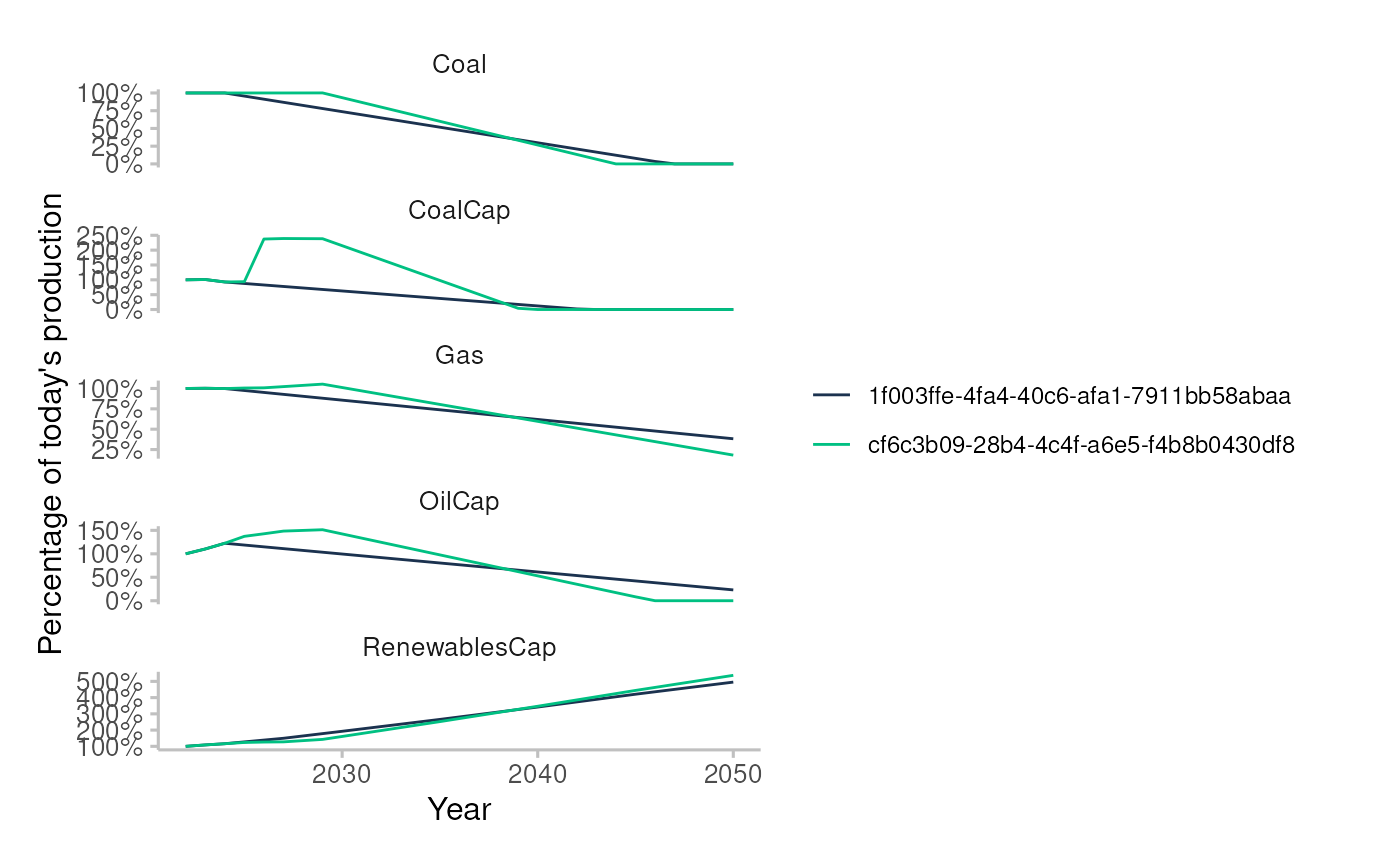
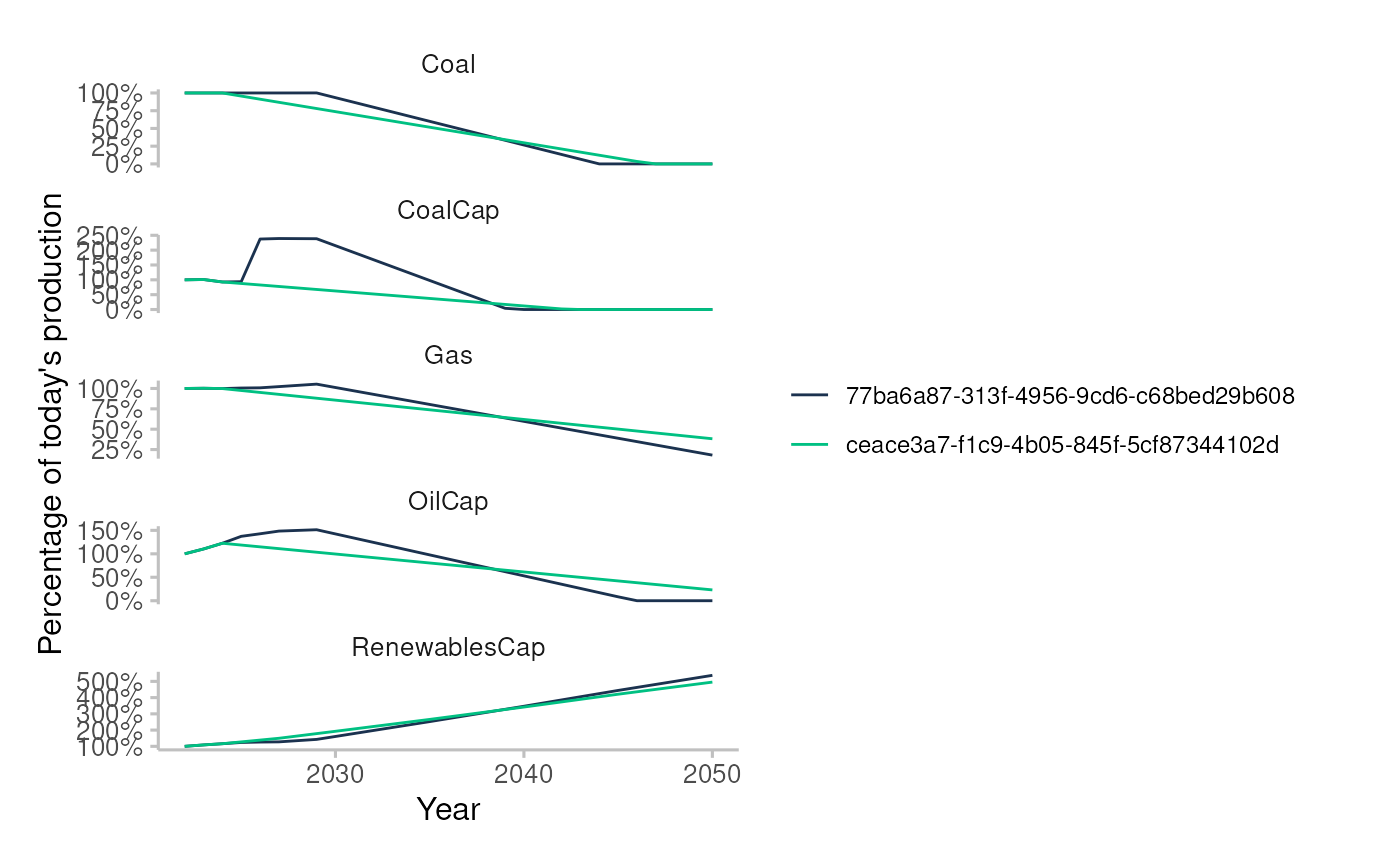
Deploying to gh-pages from @ Theia-Finance-Labs/trisk.analysis@0d2ade0a0e61b12641f2219aafac146e15362c86 🚀

diff --git a/articles/input-data-summary.html b/articles/input-data-summary.html
@@ -86,7 +86,7 @@
 <code class="sourceCode R"><span><span class="va">trisk_inputs_folder</span> <span class="op">&lt;-</span> <span class="fu"><a href="https://rdrr.io/r/base/file.path.html" class="external-link">file.path</a></span><span class="op">(</span><span class="st">"."</span>, <span class="st">"trisk_inputs"</span><span class="op">)</span></span></code></pre></div>
 <p>Download the data</p>
 <div class="sourceCode" id="cb3"><pre class="downlit sourceCode r">
-<code class="sourceCode R"><span><span class="fu"><a href="../reference/download_trisk_inputs.html">download_trisk_inputs</a></span><span class="op">(</span>local_save_folder <span class="op">=</span> <span class="va">trisk_inputs_folder</span><span class="op">)</span></span>
+<code class="sourceCode R"><span><span class="va">download_success</span> <span class="op">&lt;-</span> <span class="fu"><a href="../reference/download_trisk_inputs.html">download_trisk_inputs</a></span><span class="op">(</span>local_save_folder <span class="op">=</span> <span class="va">trisk_inputs_folder</span><span class="op">)</span></span>
 <span><span class="co">#&gt; Download completed.</span></span></code></pre></div>
 </div>
 <div class="section level2">
@@ -96,17 +96,21 @@
 <h3 id="sectors-covered-by-scenarios">Sectors covered by scenarios<a class="anchor" aria-label="anchor" href="#sectors-covered-by-scenarios"></a>
 </h3>
 <div class="sourceCode" id="cb4"><pre class="downlit sourceCode r">
-<code class="sourceCode R"><span><span class="va">scenarios</span> <span class="op">&lt;-</span> <span class="fu"><a href="https://rdrr.io/r/utils/read.table.html" class="external-link">read.csv</a></span><span class="op">(</span><span class="fu"><a href="https://rdrr.io/r/base/file.path.html" class="external-link">file.path</a></span><span class="op">(</span><span class="va">trisk_inputs_folder</span>, <span class="st">"scenarios.csv"</span><span class="op">)</span><span class="op">)</span></span>
-<span><span class="va">number_of_scenario_per_sector</span> <span class="op">&lt;-</span> <span class="va">scenarios</span> <span class="op"><a href="https://magrittr.tidyverse.org/reference/pipe.html" class="external-link">%&gt;%</a></span></span>
-<span>  <span class="fu"><a href="https://dplyr.tidyverse.org/reference/distinct.html" class="external-link">distinct</a></span><span class="op">(</span><span class="va">scenario</span>, <span class="va">sector</span>, <span class="va">technology</span><span class="op">)</span> <span class="op"><a href="https://magrittr.tidyverse.org/reference/pipe.html" class="external-link">%&gt;%</a></span></span>
-<span>  <span class="fu"><a href="https://dplyr.tidyverse.org/reference/group_by.html" class="external-link">group_by</a></span><span class="op">(</span><span class="va">sector</span>, <span class="va">technology</span><span class="op">)</span> <span class="op"><a href="https://magrittr.tidyverse.org/reference/pipe.html" class="external-link">%&gt;%</a></span></span>
-<span>  <span class="fu"><a href="https://dplyr.tidyverse.org/reference/summarise.html" class="external-link">summarise</a></span><span class="op">(</span>n_scenarios <span class="op">=</span> <span class="fu"><a href="https://dplyr.tidyverse.org/reference/context.html" class="external-link">n</a></span><span class="op">(</span><span class="op">)</span><span class="op">)</span></span>
+<code class="sourceCode R"><span><span class="kw">if</span> <span class="op">(</span><span class="va">download_success</span><span class="op">)</span> <span class="op">{</span></span>
+<span>  <span class="va">scenarios</span> <span class="op">&lt;-</span> <span class="fu"><a href="https://rdrr.io/r/utils/read.table.html" class="external-link">read.csv</a></span><span class="op">(</span><span class="fu"><a href="https://rdrr.io/r/base/file.path.html" class="external-link">file.path</a></span><span class="op">(</span><span class="va">trisk_inputs_folder</span>, <span class="st">"scenarios.csv"</span><span class="op">)</span><span class="op">)</span></span>
+<span>  <span class="va">number_of_scenario_per_sector</span> <span class="op">&lt;-</span> <span class="va">scenarios</span> <span class="op"><a href="https://magrittr.tidyverse.org/reference/pipe.html" class="external-link">%&gt;%</a></span></span>
+<span>    <span class="fu"><a href="https://dplyr.tidyverse.org/reference/distinct.html" class="external-link">distinct</a></span><span class="op">(</span><span class="va">scenario</span>, <span class="va">sector</span>, <span class="va">technology</span><span class="op">)</span> <span class="op"><a href="https://magrittr.tidyverse.org/reference/pipe.html" class="external-link">%&gt;%</a></span></span>
+<span>    <span class="fu"><a href="https://dplyr.tidyverse.org/reference/group_by.html" class="external-link">group_by</a></span><span class="op">(</span><span class="va">sector</span>, <span class="va">technology</span><span class="op">)</span> <span class="op"><a href="https://magrittr.tidyverse.org/reference/pipe.html" class="external-link">%&gt;%</a></span></span>
+<span>    <span class="fu"><a href="https://dplyr.tidyverse.org/reference/summarise.html" class="external-link">summarise</a></span><span class="op">(</span>n_scenarios <span class="op">=</span> <span class="fu"><a href="https://dplyr.tidyverse.org/reference/context.html" class="external-link">n</a></span><span class="op">(</span><span class="op">)</span><span class="op">)</span></span>
+<span><span class="op">}</span></span>
 <span><span class="co">#&gt; `summarise()` has grouped output by 'sector'. You can override using the</span></span>
 <span><span class="co">#&gt; `.groups` argument.</span></span></code></pre></div>
 <div class="sourceCode" id="cb5"><pre class="downlit sourceCode r">
-<code class="sourceCode R"><span><span class="fu">knitr</span><span class="fu">::</span><span class="fu"><a href="https://rdrr.io/pkg/knitr/man/kable.html" class="external-link">kable</a></span><span class="op">(</span><span class="va">number_of_scenario_per_sector</span><span class="op">)</span> <span class="op"><a href="https://magrittr.tidyverse.org/reference/pipe.html" class="external-link">%&gt;%</a></span></span>
-<span>  <span class="fu">kableExtra</span><span class="fu">::</span><span class="fu"><a href="https://rdrr.io/pkg/kableExtra/man/kable_styling.html" class="external-link">kable_styling</a></span><span class="op">(</span>bootstrap_options <span class="op">=</span> <span class="fu"><a href="https://rdrr.io/r/base/c.html" class="external-link">c</a></span><span class="op">(</span><span class="st">"striped"</span>, <span class="st">"hover"</span>, <span class="st">"condensed"</span><span class="op">)</span><span class="op">)</span> <span class="op"><a href="https://magrittr.tidyverse.org/reference/pipe.html" class="external-link">%&gt;%</a></span></span>
-<span>  <span class="fu">kableExtra</span><span class="fu">::</span><span class="fu"><a href="https://rdrr.io/pkg/kableExtra/man/scroll_box.html" class="external-link">scroll_box</a></span><span class="op">(</span>width <span class="op">=</span> <span class="st">"100%"</span>, height <span class="op">=</span> <span class="st">"400px"</span><span class="op">)</span></span></code></pre></div>
+<code class="sourceCode R"><span><span class="kw">if</span> <span class="op">(</span><span class="va">download_success</span><span class="op">)</span> <span class="op">{</span></span>
+<span>  <span class="fu">knitr</span><span class="fu">::</span><span class="fu"><a href="https://rdrr.io/pkg/knitr/man/kable.html" class="external-link">kable</a></span><span class="op">(</span><span class="va">number_of_scenario_per_sector</span><span class="op">)</span> <span class="op"><a href="https://magrittr.tidyverse.org/reference/pipe.html" class="external-link">%&gt;%</a></span></span>
+<span>    <span class="fu">kableExtra</span><span class="fu">::</span><span class="fu"><a href="https://rdrr.io/pkg/kableExtra/man/kable_styling.html" class="external-link">kable_styling</a></span><span class="op">(</span>bootstrap_options <span class="op">=</span> <span class="fu"><a href="https://rdrr.io/r/base/c.html" class="external-link">c</a></span><span class="op">(</span><span class="st">"striped"</span>, <span class="st">"hover"</span>, <span class="st">"condensed"</span><span class="op">)</span><span class="op">)</span> <span class="op"><a href="https://magrittr.tidyverse.org/reference/pipe.html" class="external-link">%&gt;%</a></span></span>
+<span>    <span class="fu">kableExtra</span><span class="fu">::</span><span class="fu"><a href="https://rdrr.io/pkg/kableExtra/man/scroll_box.html" class="external-link">scroll_box</a></span><span class="op">(</span>width <span class="op">=</span> <span class="st">"100%"</span>, height <span class="op">=</span> <span class="st">"400px"</span><span class="op">)</span></span>
+<span><span class="op">}</span></span></code></pre></div>
 <div style="border: 1px solid #ddd; padding: 0px; overflow-y: scroll; height:400px; overflow-x: scroll; width:100%; ">
 <table class="table table table-striped table-hover table-condensed" style="margin-left: auto; margin-right: auto;">
 <thead><tr>
@@ -340,21 +344,25 @@ EAF-OHF
 </h2>
 <p>Load downloaded data</p>
 <div class="sourceCode" id="cb6"><pre class="downlit sourceCode r">
-<code class="sourceCode R"><span><span class="va">assets</span> <span class="op">&lt;-</span> <span class="fu"><a href="https://rdrr.io/r/utils/read.table.html" class="external-link">read.csv</a></span><span class="op">(</span><span class="fu"><a href="https://rdrr.io/r/base/file.path.html" class="external-link">file.path</a></span><span class="op">(</span><span class="va">trisk_inputs_folder</span>, <span class="st">"assets.csv"</span><span class="op">)</span><span class="op">)</span></span>
-<span><span class="va">scenarios</span> <span class="op">&lt;-</span> <span class="fu"><a href="https://rdrr.io/r/utils/read.table.html" class="external-link">read.csv</a></span><span class="op">(</span><span class="fu"><a href="https://rdrr.io/r/base/file.path.html" class="external-link">file.path</a></span><span class="op">(</span><span class="va">trisk_inputs_folder</span>, <span class="st">"scenarios.csv"</span><span class="op">)</span><span class="op">)</span></span>
-<span><span class="va">financial_data</span> <span class="op">&lt;-</span> <span class="fu"><a href="https://rdrr.io/r/utils/read.table.html" class="external-link">read.csv</a></span><span class="op">(</span><span class="fu"><a href="https://rdrr.io/r/base/file.path.html" class="external-link">file.path</a></span><span class="op">(</span><span class="va">trisk_inputs_folder</span>, <span class="st">"financial_features.csv"</span><span class="op">)</span><span class="op">)</span></span>
-<span><span class="va">carbon_data</span> <span class="op">&lt;-</span> <span class="fu"><a href="https://rdrr.io/r/utils/read.table.html" class="external-link">read.csv</a></span><span class="op">(</span><span class="fu"><a href="https://rdrr.io/r/base/file.path.html" class="external-link">file.path</a></span><span class="op">(</span><span class="va">trisk_inputs_folder</span>, <span class="st">"ngfs_carbon_price.csv"</span><span class="op">)</span><span class="op">)</span></span></code></pre></div>
+<code class="sourceCode R"><span><span class="kw">if</span> <span class="op">(</span><span class="va">download_success</span><span class="op">)</span> <span class="op">{</span></span>
+<span>  <span class="va">assets</span> <span class="op">&lt;-</span> <span class="fu"><a href="https://rdrr.io/r/utils/read.table.html" class="external-link">read.csv</a></span><span class="op">(</span><span class="fu"><a href="https://rdrr.io/r/base/file.path.html" class="external-link">file.path</a></span><span class="op">(</span><span class="va">trisk_inputs_folder</span>, <span class="st">"assets.csv"</span><span class="op">)</span><span class="op">)</span></span>
+<span>  <span class="va">scenarios</span> <span class="op">&lt;-</span> <span class="fu"><a href="https://rdrr.io/r/utils/read.table.html" class="external-link">read.csv</a></span><span class="op">(</span><span class="fu"><a href="https://rdrr.io/r/base/file.path.html" class="external-link">file.path</a></span><span class="op">(</span><span class="va">trisk_inputs_folder</span>, <span class="st">"scenarios.csv"</span><span class="op">)</span><span class="op">)</span></span>
+<span>  <span class="va">financial_data</span> <span class="op">&lt;-</span> <span class="fu"><a href="https://rdrr.io/r/utils/read.table.html" class="external-link">read.csv</a></span><span class="op">(</span><span class="fu"><a href="https://rdrr.io/r/base/file.path.html" class="external-link">file.path</a></span><span class="op">(</span><span class="va">trisk_inputs_folder</span>, <span class="st">"financial_features.csv"</span><span class="op">)</span><span class="op">)</span></span>
+<span>  <span class="va">carbon_data</span> <span class="op">&lt;-</span> <span class="fu"><a href="https://rdrr.io/r/utils/read.table.html" class="external-link">read.csv</a></span><span class="op">(</span><span class="fu"><a href="https://rdrr.io/r/base/file.path.html" class="external-link">file.path</a></span><span class="op">(</span><span class="va">trisk_inputs_folder</span>, <span class="st">"ngfs_carbon_price.csv"</span><span class="op">)</span><span class="op">)</span></span>
+<span><span class="op">}</span></span></code></pre></div>
 <p>Run Trisk on this data</p>
 <div class="sourceCode" id="cb7"><pre class="downlit sourceCode r">
-<code class="sourceCode R"><span><span class="va">st_results</span> <span class="op">&lt;-</span> <span class="fu"><a href="https://rdrr.io/pkg/trisk.model/man/run_trisk_model.html" class="external-link">run_trisk_model</a></span><span class="op">(</span></span>
-<span>  assets_data <span class="op">=</span> <span class="va">assets</span>,</span>
-<span>  scenarios_data <span class="op">=</span> <span class="va">scenarios</span>,</span>
-<span>  financial_data <span class="op">=</span> <span class="va">financial_data</span>,</span>
-<span>  carbon_data <span class="op">=</span> <span class="va">carbon_data</span>,</span>
-<span>  baseline_scenario <span class="op">=</span> <span class="st">"NGFS2023GCAM_CP"</span>,</span>
-<span>  target_scenario <span class="op">=</span> <span class="st">"NGFS2023GCAM_NZ2050"</span>,</span>
-<span>  scenario_geography <span class="op">=</span> <span class="st">"Global"</span></span>
-<span><span class="op">)</span></span>
+<code class="sourceCode R"><span><span class="kw">if</span> <span class="op">(</span><span class="va">download_success</span><span class="op">)</span> <span class="op">{</span></span>
+<span>  <span class="va">st_results</span> <span class="op">&lt;-</span> <span class="fu"><a href="https://rdrr.io/pkg/trisk.model/man/run_trisk_model.html" class="external-link">run_trisk_model</a></span><span class="op">(</span></span>
+<span>    assets_data <span class="op">=</span> <span class="va">assets</span>,</span>
+<span>    scenarios_data <span class="op">=</span> <span class="va">scenarios</span>,</span>
+<span>    financial_data <span class="op">=</span> <span class="va">financial_data</span>,</span>
+<span>    carbon_data <span class="op">=</span> <span class="va">carbon_data</span>,</span>
+<span>    baseline_scenario <span class="op">=</span> <span class="st">"NGFS2023GCAM_CP"</span>,</span>
+<span>    target_scenario <span class="op">=</span> <span class="st">"NGFS2023GCAM_NZ2050"</span>,</span>
+<span>    scenario_geography <span class="op">=</span> <span class="st">"Global"</span></span>
+<span>  <span class="op">)</span></span>
+<span><span class="op">}</span></span>
 <span><span class="co">#&gt; -- Processing Assets and Scenarios. </span></span>
 <span><span class="co">#&gt; -- Transforming to Trisk model input. </span></span>
 <span><span class="co">#&gt; -- Calculating baseline, target, and shock trajectories. </span></span>
@@ -362,7 +370,9 @@ EAF-OHF
 <span><span class="co">#&gt; -- Calculating market risk. </span></span>
 <span><span class="co">#&gt; -- Calculating credit risk.</span></span></code></pre></div>
 <div class="sourceCode" id="cb8"><pre class="downlit sourceCode r">
-<code class="sourceCode R"><span><span class="fu"><a href="https://rdrr.io/r/base/names.html" class="external-link">names</a></span><span class="op">(</span><span class="va">st_results</span><span class="op">)</span></span>
+<code class="sourceCode R"><span><span class="kw">if</span> <span class="op">(</span><span class="va">download_success</span><span class="op">)</span> <span class="op">{</span></span>
+<span>  <span class="fu"><a href="https://rdrr.io/r/base/print.html" class="external-link">print</a></span><span class="op">(</span><span class="fu"><a href="https://rdrr.io/r/base/names.html" class="external-link">names</a></span><span class="op">(</span><span class="va">st_results</span><span class="op">)</span><span class="op">)</span></span>
+<span><span class="op">}</span></span>
 <span><span class="co">#&gt; [1] "npv_results"          "pd_results"           "company_trajectories"</span></span></code></pre></div>
 </div>
   </main><aside class="col-md-3"><nav id="toc" aria-label="Table of contents"><h2>On this page</h2>

diff --git a/articles/apply-stress-test-on-portfolio.html b/articles/apply-stress-test-on-portfolio.html
@@ -78,10 +78,10 @@
 </h3>
 <p>Load the internal datasets</p>
 <div class="sourceCode" id="cb2"><pre class="downlit sourceCode r">
-<code class="sourceCode R"><span><span class="va">assets_testdata</span> <span class="op">&lt;-</span> <span class="fu"><a href="https://rdrr.io/r/utils/read.table.html" class="external-link">read.csv</a></span><span class="op">(</span><span class="fu"><a href="https://rdrr.io/r/base/system.file.html" class="external-link">system.file</a></span><span class="op">(</span><span class="st">"testdata"</span>, <span class="st">"assets_testdata.csv"</span>, package <span class="op">=</span> <span class="st">"trisk.model"</span>, mustWork<span class="op">=</span><span class="cn">TRUE</span><span class="op">)</span><span class="op">)</span></span>
-<span><span class="va">scenarios_testdata</span> <span class="op">&lt;-</span> <span class="fu"><a href="https://rdrr.io/r/utils/read.table.html" class="external-link">read.csv</a></span><span class="op">(</span><span class="fu"><a href="https://rdrr.io/r/base/system.file.html" class="external-link">system.file</a></span><span class="op">(</span><span class="st">"testdata"</span>, <span class="st">"scenarios_testdata.csv"</span>, package <span class="op">=</span> <span class="st">"trisk.model"</span>, mustWork<span class="op">=</span><span class="cn">TRUE</span><span class="op">)</span><span class="op">)</span></span>
-<span><span class="va">financial_features_testdata</span> <span class="op">&lt;-</span> <span class="fu"><a href="https://rdrr.io/r/utils/read.table.html" class="external-link">read.csv</a></span><span class="op">(</span><span class="fu"><a href="https://rdrr.io/r/base/system.file.html" class="external-link">system.file</a></span><span class="op">(</span><span class="st">"testdata"</span>, <span class="st">"financial_features_testdata.csv"</span>, package <span class="op">=</span> <span class="st">"trisk.model"</span>, mustWork<span class="op">=</span><span class="cn">TRUE</span><span class="op">)</span><span class="op">)</span></span>
-<span><span class="va">ngfs_carbon_price_testdata</span> <span class="op">&lt;-</span> <span class="fu"><a href="https://rdrr.io/r/utils/read.table.html" class="external-link">read.csv</a></span><span class="op">(</span><span class="fu"><a href="https://rdrr.io/r/base/system.file.html" class="external-link">system.file</a></span><span class="op">(</span><span class="st">"testdata"</span>, <span class="st">"ngfs_carbon_price_testdata.csv"</span>, package <span class="op">=</span> <span class="st">"trisk.model"</span>, mustWork<span class="op">=</span><span class="cn">TRUE</span><span class="op">)</span><span class="op">)</span></span></code></pre></div>
+<code class="sourceCode R"><span><span class="va">assets_testdata</span> <span class="op">&lt;-</span> <span class="fu"><a href="https://rdrr.io/r/utils/read.table.html" class="external-link">read.csv</a></span><span class="op">(</span><span class="fu"><a href="https://rdrr.io/r/base/system.file.html" class="external-link">system.file</a></span><span class="op">(</span><span class="st">"testdata"</span>, <span class="st">"assets_testdata.csv"</span>, package <span class="op">=</span> <span class="st">"trisk.model"</span>, mustWork <span class="op">=</span> <span class="cn">TRUE</span><span class="op">)</span><span class="op">)</span></span>
+<span><span class="va">scenarios_testdata</span> <span class="op">&lt;-</span> <span class="fu"><a href="https://rdrr.io/r/utils/read.table.html" class="external-link">read.csv</a></span><span class="op">(</span><span class="fu"><a href="https://rdrr.io/r/base/system.file.html" class="external-link">system.file</a></span><span class="op">(</span><span class="st">"testdata"</span>, <span class="st">"scenarios_testdata.csv"</span>, package <span class="op">=</span> <span class="st">"trisk.model"</span>, mustWork <span class="op">=</span> <span class="cn">TRUE</span><span class="op">)</span><span class="op">)</span></span>
+<span><span class="va">financial_features_testdata</span> <span class="op">&lt;-</span> <span class="fu"><a href="https://rdrr.io/r/utils/read.table.html" class="external-link">read.csv</a></span><span class="op">(</span><span class="fu"><a href="https://rdrr.io/r/base/system.file.html" class="external-link">system.file</a></span><span class="op">(</span><span class="st">"testdata"</span>, <span class="st">"financial_features_testdata.csv"</span>, package <span class="op">=</span> <span class="st">"trisk.model"</span>, mustWork <span class="op">=</span> <span class="cn">TRUE</span><span class="op">)</span><span class="op">)</span></span>
+<span><span class="va">ngfs_carbon_price_testdata</span> <span class="op">&lt;-</span> <span class="fu"><a href="https://rdrr.io/r/utils/read.table.html" class="external-link">read.csv</a></span><span class="op">(</span><span class="fu"><a href="https://rdrr.io/r/base/system.file.html" class="external-link">system.file</a></span><span class="op">(</span><span class="st">"testdata"</span>, <span class="st">"ngfs_carbon_price_testdata.csv"</span>, package <span class="op">=</span> <span class="st">"trisk.model"</span>, mustWork <span class="op">=</span> <span class="cn">TRUE</span><span class="op">)</span><span class="op">)</span></span></code></pre></div>
 <p>Define the scenarios to use</p>
 <div class="sourceCode" id="cb3"><pre class="downlit sourceCode r">
 <code class="sourceCode R"><span><span class="va">baseline_scenario</span> <span class="op">&lt;-</span> <span class="st">"NGFS2023GCAM_CP"</span></span>
@@ -237,7 +237,8 @@ DE
 <span>  portfolio_data <span class="op">=</span> <span class="va">portfolio_testdata</span>,</span>
 <span>  baseline_scenario <span class="op">=</span> <span class="va">baseline_scenario</span>,</span>
 <span>  target_scenario <span class="op">=</span> <span class="va">target_scenario</span>,</span>
-<span>  scenario_geography <span class="op">=</span> <span class="va">scenario_geography</span><span class="op">)</span></span>
+<span>  scenario_geography <span class="op">=</span> <span class="va">scenario_geography</span></span>
+<span><span class="op">)</span></span>
 <span><span class="co">#&gt; -- Matching assets to portfolio-- Start Trisk-- Processing Assets and Scenarios. </span></span>
 <span><span class="co">#&gt; -- Transforming to Trisk model input. </span></span>
 <span><span class="co">#&gt; -- Calculating baseline, target, and shock trajectories. </span></span>
@@ -325,7 +326,7 @@ DE
 101
 </td>
 <td style="text-align:left;">
-7828345b-4306-4a8a-af6a-3d3cc75ce493
+6bd5ae06-2c28-4bb3-bd98-88b99e76942b
 </td>
 <td style="text-align:left;">
 101
@@ -372,7 +373,7 @@ DE
 102
 </td>
 <td style="text-align:left;">
-7828345b-4306-4a8a-af6a-3d3cc75ce493
+6bd5ae06-2c28-4bb3-bd98-88b99e76942b
 </td>
 <td style="text-align:left;">
 102
@@ -466,7 +467,7 @@ DE
 104
 </td>
 <td style="text-align:left;">
-7828345b-4306-4a8a-af6a-3d3cc75ce493
+6bd5ae06-2c28-4bb3-bd98-88b99e76942b
 </td>
 <td style="text-align:left;">
 104

diff --git a/articles/run-country-sensitivity-analysis.html b/articles/run-country-sensitivity-analysis.html
@@ -167,7 +167,7 @@ net_present_value_shock
 <tbody>
 <tr>
 <td style="text-align:left;">
-cf6c3b09-28b4-4c4f-a6e5-f4b8b0430df8
+77ba6a87-313f-4956-9cd6-c68bed29b608
 </td>
 <td style="text-align:right;">
 101
@@ -196,7 +196,7 @@ Gas
 </tr>
 <tr>
 <td style="text-align:left;">
-cf6c3b09-28b4-4c4f-a6e5-f4b8b0430df8
+77ba6a87-313f-4956-9cd6-c68bed29b608
 </td>
 <td style="text-align:right;">
 102
@@ -225,7 +225,7 @@ Coal
 </tr>
 <tr>
 <td style="text-align:left;">
-cf6c3b09-28b4-4c4f-a6e5-f4b8b0430df8
+77ba6a87-313f-4956-9cd6-c68bed29b608
 </td>
 <td style="text-align:right;">
 103
@@ -254,7 +254,7 @@ Gas
 </tr>
 <tr>
 <td style="text-align:left;">
-cf6c3b09-28b4-4c4f-a6e5-f4b8b0430df8
+77ba6a87-313f-4956-9cd6-c68bed29b608
 </td>
 <td style="text-align:right;">
 104
@@ -283,7 +283,7 @@ RenewablesCap
 </tr>
 <tr>
 <td style="text-align:left;">
-cf6c3b09-28b4-4c4f-a6e5-f4b8b0430df8
+77ba6a87-313f-4956-9cd6-c68bed29b608
 </td>
 <td style="text-align:right;">
 105
@@ -312,7 +312,7 @@ CoalCap
 </tr>
 <tr>
 <td style="text-align:left;">
-cf6c3b09-28b4-4c4f-a6e5-f4b8b0430df8
+77ba6a87-313f-4956-9cd6-c68bed29b608
 </td>
 <td style="text-align:right;">
 105
@@ -375,7 +375,7 @@ pd_shock
 <tbody>
 <tr>
 <td style="text-align:left;">
-cf6c3b09-28b4-4c4f-a6e5-f4b8b0430df8
+77ba6a87-313f-4956-9cd6-c68bed29b608
 </td>
 <td style="text-align:right;">
 101
@@ -398,7 +398,7 @@ Oil&amp;Gas
 </tr>
 <tr>
 <td style="text-align:left;">
-cf6c3b09-28b4-4c4f-a6e5-f4b8b0430df8
+77ba6a87-313f-4956-9cd6-c68bed29b608
 </td>
 <td style="text-align:right;">
 101
@@ -421,7 +421,7 @@ Oil&amp;Gas
 </tr>
 <tr>
 <td style="text-align:left;">
-cf6c3b09-28b4-4c4f-a6e5-f4b8b0430df8
+77ba6a87-313f-4956-9cd6-c68bed29b608
 </td>
 <td style="text-align:right;">
 101
@@ -444,7 +444,7 @@ Oil&amp;Gas
 </tr>
 <tr>
 <td style="text-align:left;">
-cf6c3b09-28b4-4c4f-a6e5-f4b8b0430df8
+77ba6a87-313f-4956-9cd6-c68bed29b608
 </td>
 <td style="text-align:right;">
 101
@@ -467,7 +467,7 @@ Oil&amp;Gas
 </tr>
 <tr>
 <td style="text-align:left;">
-cf6c3b09-28b4-4c4f-a6e5-f4b8b0430df8
+77ba6a87-313f-4956-9cd6-c68bed29b608
 </td>
 <td style="text-align:right;">
 101
@@ -490,7 +490,7 @@ Oil&amp;Gas
 </tr>
 <tr>
 <td style="text-align:left;">
-cf6c3b09-28b4-4c4f-a6e5-f4b8b0430df8
+77ba6a87-313f-4956-9cd6-c68bed29b608
 </td>
 <td style="text-align:right;">
 102
@@ -592,7 +592,7 @@ discounted_net_profits_shock_scenario
 <tbody>
 <tr>
 <td style="text-align:left;">
-cf6c3b09-28b4-4c4f-a6e5-f4b8b0430df8
+77ba6a87-313f-4956-9cd6-c68bed29b608
 </td>
 <td style="text-align:right;">
 101
@@ -660,7 +660,7 @@ Gas
 </tr>
 <tr>
 <td style="text-align:left;">
-cf6c3b09-28b4-4c4f-a6e5-f4b8b0430df8
+77ba6a87-313f-4956-9cd6-c68bed29b608
 </td>
 <td style="text-align:right;">
 101
@@ -728,7 +728,7 @@ Gas
 </tr>
 <tr>
 <td style="text-align:left;">
-cf6c3b09-28b4-4c4f-a6e5-f4b8b0430df8
+77ba6a87-313f-4956-9cd6-c68bed29b608
 </td>
 <td style="text-align:right;">
 101
@@ -796,7 +796,7 @@ Gas
 </tr>
 <tr>
 <td style="text-align:left;">
-cf6c3b09-28b4-4c4f-a6e5-f4b8b0430df8
+77ba6a87-313f-4956-9cd6-c68bed29b608
 </td>
 <td style="text-align:right;">
 101
@@ -864,7 +864,7 @@ Gas
 </tr>
 <tr>
 <td style="text-align:left;">
-cf6c3b09-28b4-4c4f-a6e5-f4b8b0430df8
+77ba6a87-313f-4956-9cd6-c68bed29b608
 </td>
 <td style="text-align:right;">
 101
@@ -932,7 +932,7 @@ Gas
 </tr>
 <tr>
 <td style="text-align:left;">
-cf6c3b09-28b4-4c4f-a6e5-f4b8b0430df8
+77ba6a87-313f-4956-9cd6-c68bed29b608
 </td>
 <td style="text-align:right;">
 101
@@ -1076,7 +1076,7 @@ no_carbon_tax
 0
 </td>
 <td style="text-align:left;">
-cf6c3b09-28b4-4c4f-a6e5-f4b8b0430df8
+77ba6a87-313f-4956-9cd6-c68bed29b608
 </td>
 </tr>
 <tr>
@@ -1111,7 +1111,7 @@ no_carbon_tax
 0
 </td>
 <td style="text-align:left;">
-1f003ffe-4fa4-40c6-afa1-7911bb58abaa
+ceace3a7-f1c9-4b05-845f-5cf87344102d
 </td>
 </tr>
 </tbody>
